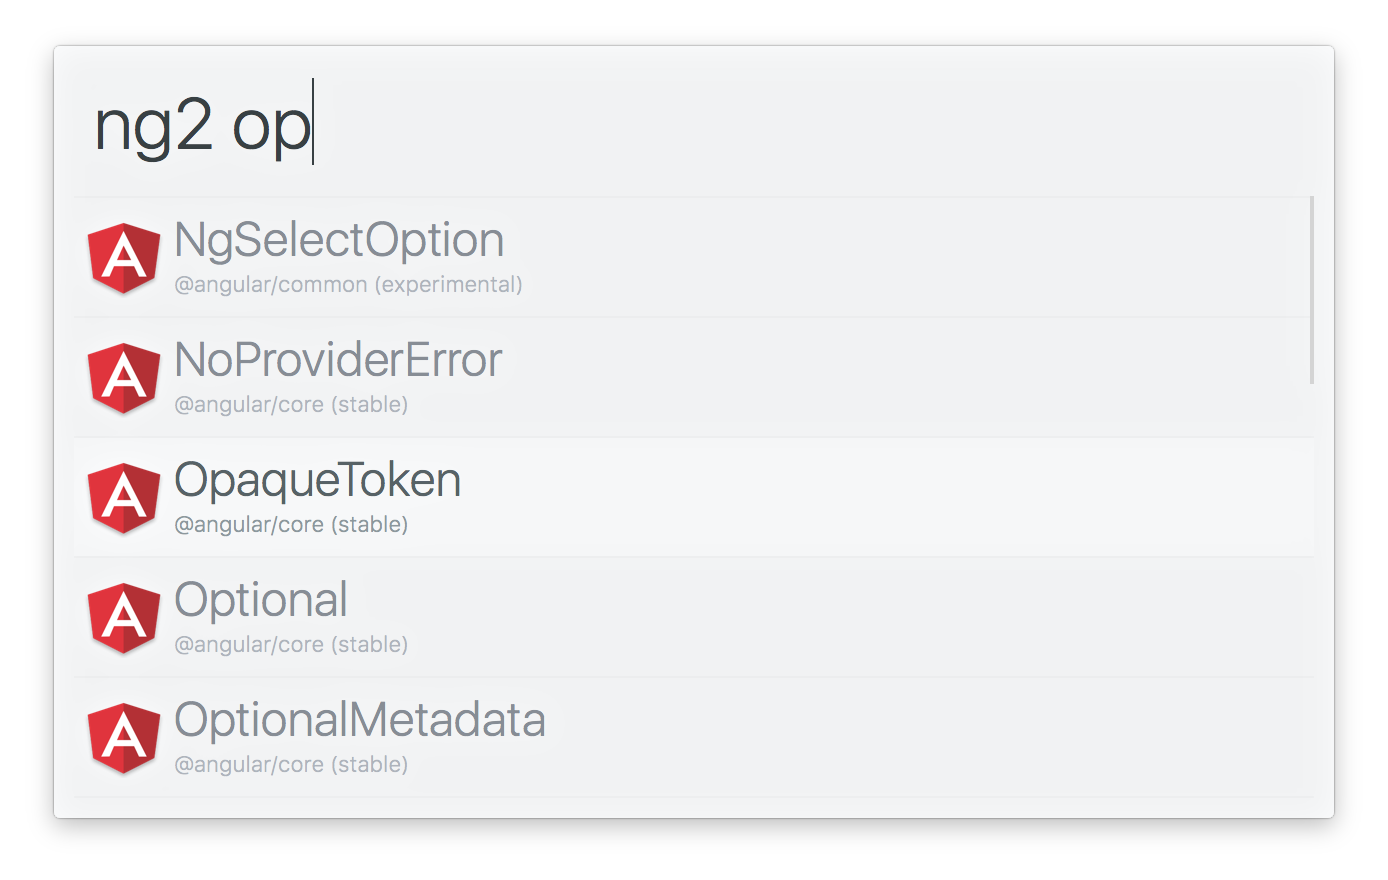
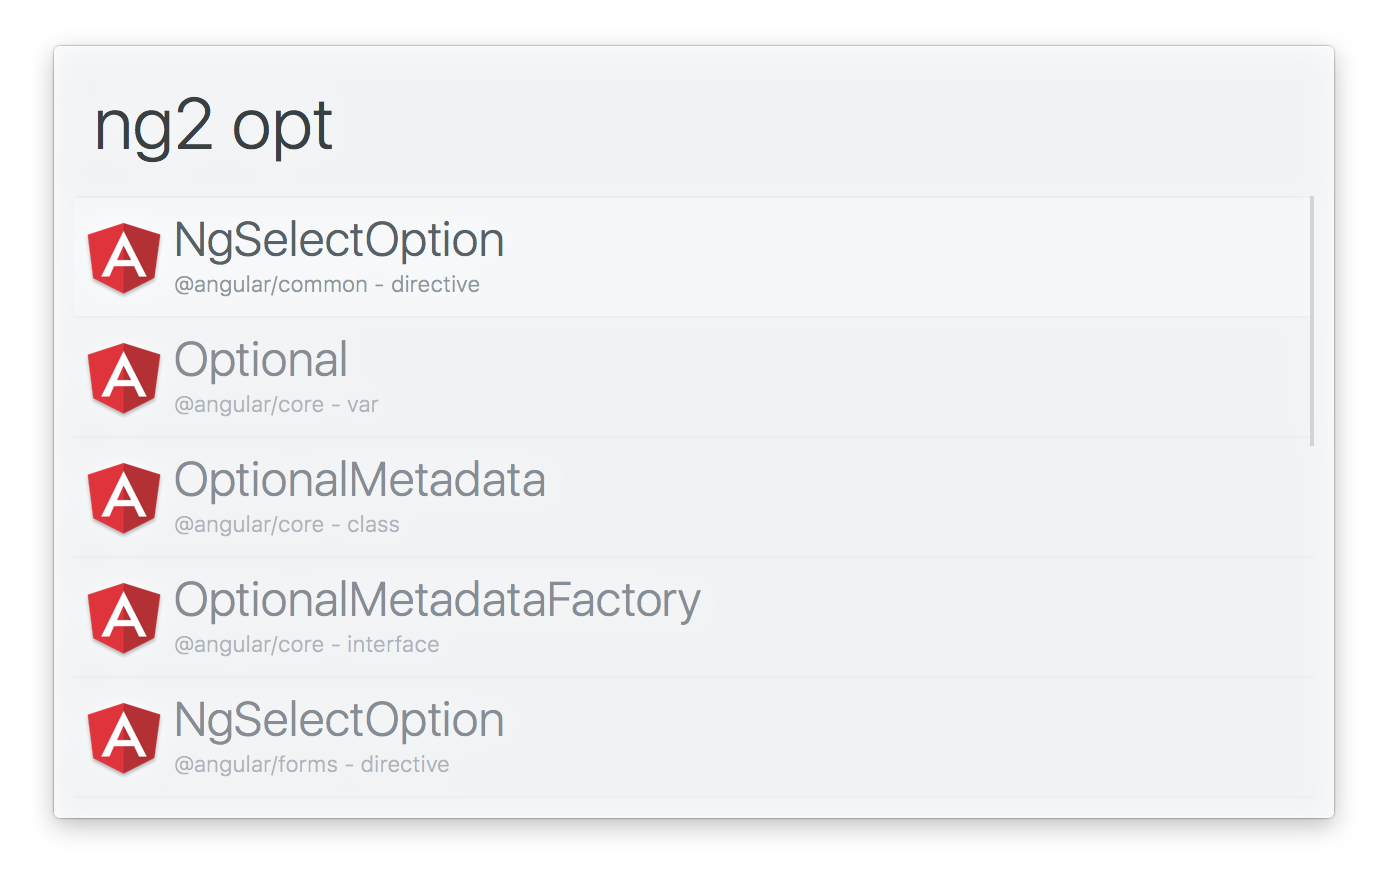
add doctype and show stability when pressing alt

diff --git a/index.js b/index.js
@@ -43,12 +43,21 @@ getApiList()
 	.then(modules => {
 		const items = modules
 			.filter(x => search.test(x.title))
-			.map(x => ({
-				title: x.title,
-				subtitle: `${x.barrel} (${x.stability})`,
-				arg: `https://angular.io/docs/ts/latest/api/${x.path}`,
-				quicklookurl: `https://angular.io/docs/ts/latest/api/${x.path}`
-			}));
+			.map(x => {
+				const url = `https://angular.io/docs/ts/latest/api/${x.path}`;
+
+				return {
+					title: x.title,
+					subtitle: `${x.barrel} - ${x.docType}`,
+					arg: url,
+					quicklookurl: url,
+					mods: {
+						alt: {
+							subtitle: x.stability
+						}
+					}
+				};
+			});
 
 		alfy.output(items);
 	});

diff --git a/readme.md b/readme.md
@@ -17,6 +17,7 @@
 In Alfred, type `ng2`, <kbd>Enter</kbd>, and your query.
 
 Select an item and press <kbd>Enter</kbd> to go to its [angular.io](https://angular.io) documentation.<br>
+Hold <kbd>Alt</kbd> to show the API stability.<br>
 Press <kbd>Shift</kbd> to view the documentation in Quick Look.
 
 
